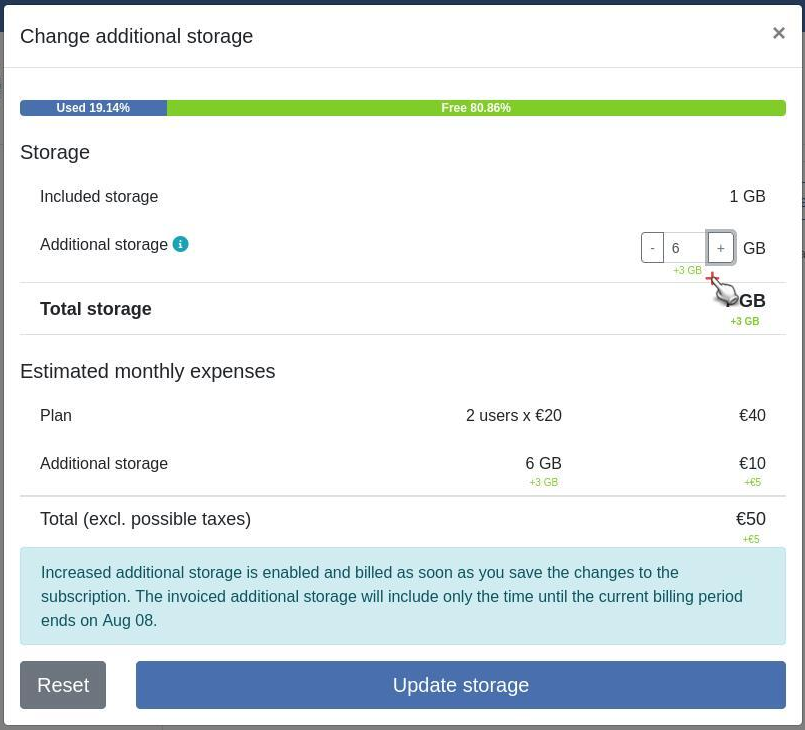
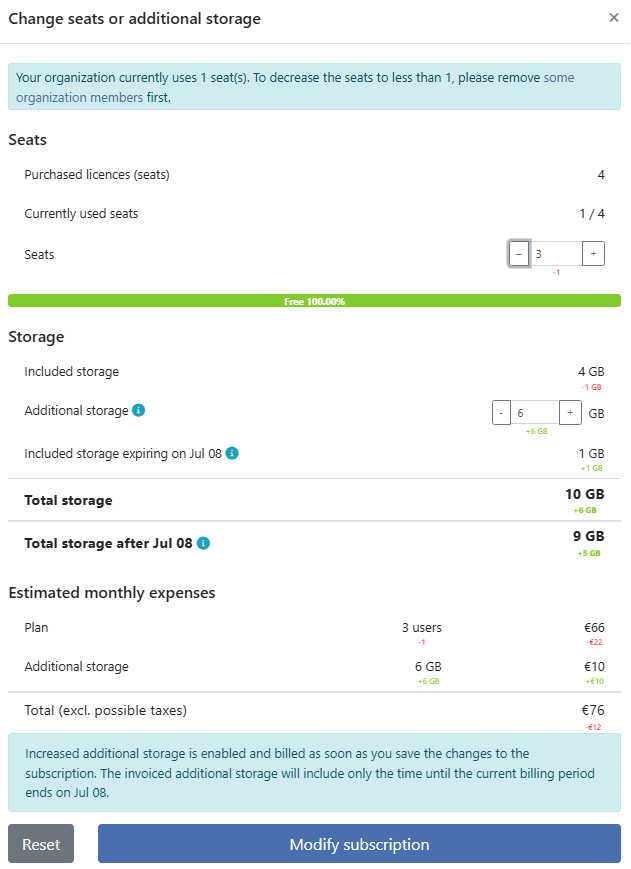
QF8402_new_billing_page

diff --git a/documentation/get-started/storage-qfc.en.md b/documentation/get-started/storage-qfc.en.md
@@ -44,22 +44,31 @@ To upgrade to a Personal **Pro Plan**, follow these steps:
 To upgrade to an **Organization plan**, follow these steps:
 
 !!! Workflow
-    1. Click on the username at the top-right of the page
+    1. Click on the username of your at the top-right of the page
     2. Click on "Create organization"
-    3. Click on "Create"
-    4. Choose a name for your organization with only less than 150 characters, letters, digits, and `@/./+/-/_`
-    5. Click on "Create"
-    6. Select the desired storage
-    7. In the "Billing Address" section, fill the required fields and "Proceed to payment".
-    An overview page will show the overview of the plan and the billing details.
-    8. (Optionable) If you have received a referral code, please enter it at the bottom of the billing window.
+    3. Choose your preferred payment option
+    !![organization plan options](../assets/images/organization_plan_options.png,800px)
+        - **Monthly Payment:** You can choose between a **Flat** subscription or a **Flex** Subscription.
+             - **Flat**: You select your number of seats (users in the organization) and pay each month for every seat.
+             - **Flex**: You select your number of seats and only pay for the active members.
+             A minimum of 2 seats is always needed.
+        - **Yearly Payment**: You select your number of seats and pay once for every seat at the beginning of the subscription. (First 20 seats: 17 Euros per seat per month).
 
-    !![Billing Overview Organisation](../assets/images/QFC_Organisation_BillingOverview.png,600px)
+    4. Click on "Create"
+    5. Choose a name for your organization with only less than 150 characters, letters, digits, and `@/./+/-/_`
+    6. Click on "Create"
+    7. In the "Billing Address" section, fill the required fields and click  "Next".
+    An overview page will show the overview of the plan and the billing details.
+    8. If you would like to add additional storage, you can add as many as storage packages as you need.
+    !![](../assets/images/example_organization_plan_billing.png)
+    9. (Optionable) If you have received a promotion code, please enter it at the bottom of the billing window.
+    10. Under the summary page you see your current monthly subscription and upcoming payment.
+    Add your billing details and click on **Pay** to activate your plan.
 
 ### **Active Users under Organization Plans**
 
-An organization requires at least two users.
-The total cost per billing cycle is defined by the number of **active** users.
+Under the **Flex Plan** at least two users must be in an organization.
+Depending on your plan the total cost per billing cycle is defined by the number of **active** users (**Flex only**).
 An "active user" corresponds to a member who has performed at least one "job" within a project belonging to the organization during an invoice cycle.
 
 To monitor the number of active users direct to *Organization Settings* > *Billing* > *Active users*
@@ -75,20 +84,35 @@ To monitor the number of active users direct to *Organization Settings* > *Billi
 
     To have multiple people working safely and concurrently on a project (e.g., `survey_001`), you will need an **Organization Plan**.
     This allows you to invite different user accounts (e.g., `ninja_001`, `ninja_002`, `ninja_00n`) to collaborate.
-    Administrators can seamlessly add, remove, or change the permissions of these users within the Organization and specific projects.
+    Administrators can add, remove, or change the permissions of these users within the organization and specific projects.
 
-## Adding QFieldCloud storage
+## Modification of current subscription
 
-In QFieldCloud you can configure as much storage as desired for your projects.
+In QFieldCloud you can add as much storage as desired for your projects and change the number of your preferred selected seats whenever you want.
+Depending on your subscription plan, the modified storage and number of seats will become available immediately or only added to the next billing cycle.
 Additional storage can be obtained in the sets of 3 GB.
 
-To add more storage to QFieldCloud direct to *Settings* > *Billing* > *Subscription* > *Change* > *Update storage*
+!!! Workflow
 
-!![ Subscription “Change” ](../assets/images/storage-qfc1.png)
+    1. To add more storage to your organization direct to the *Settings*  section of your organization.
+    2. Click on the **billing section** and click on *Change*
+    !![](../assets/images/storage-qfc1.png)
 
-!![ “Update storage” ](../assets/images/storage-qfc2.png)
+    3. From there you can either cancel your subscription or modify the subscription.
+    Click on **Modify subscription**
+    !![](../assets/images/storage-qfc2.png)
 
-!![ “Additional storage” ](../assets/images/storage-qfc3.png)
+    4. Adjust the number of seats and the modified storage packages depending on your needs.
+    The reflected changes to the upcoming subscription will be indicated below the current subscription either with a green (increasing seats/storage) or red (decreasing seats/storage) colour.
+    !![](../assets/images/storage-qfc3.png)
+
+
+
+    !!! Note
+
+        The included storage corresponds to the storage that is associated with your number of seats.
+        The additional storage corresponds to the storage that is added in packagages of 3GB.Once a subscription has been modified the additional storage and seats will be immediately available to use.
+        Any decreased storage or number of seats will only be updated with the next billing cycle.
 
 ## Cancellation of a subscription
 
@@ -99,11 +123,11 @@ This has to be done separately for both the PRO Plans and the Organization Plans
 
     1. For the **Personal Pro Plan**: From your <ins>user account's landing page</ins> click on *Edit Profile*.
     **For the Organization Plan**: From your <ins>Organization account's landing page</ins> click on *Edit Organization*
-    2. Switch to the corresponding  *Billing Section**
+    2. Switch to the corresponding  **Billing Section**
 
         ![Enter to billing section](../assets/images/discontinuing_service_02_change_subcription.png)
 
-    3. Select "Cancel Subscription".
+    3. Click on **change** and following **Cancel subscription**.
 
         ![Cancel subscription](../assets/images/discontinuing_service_03_cancel_subscription.png)
 